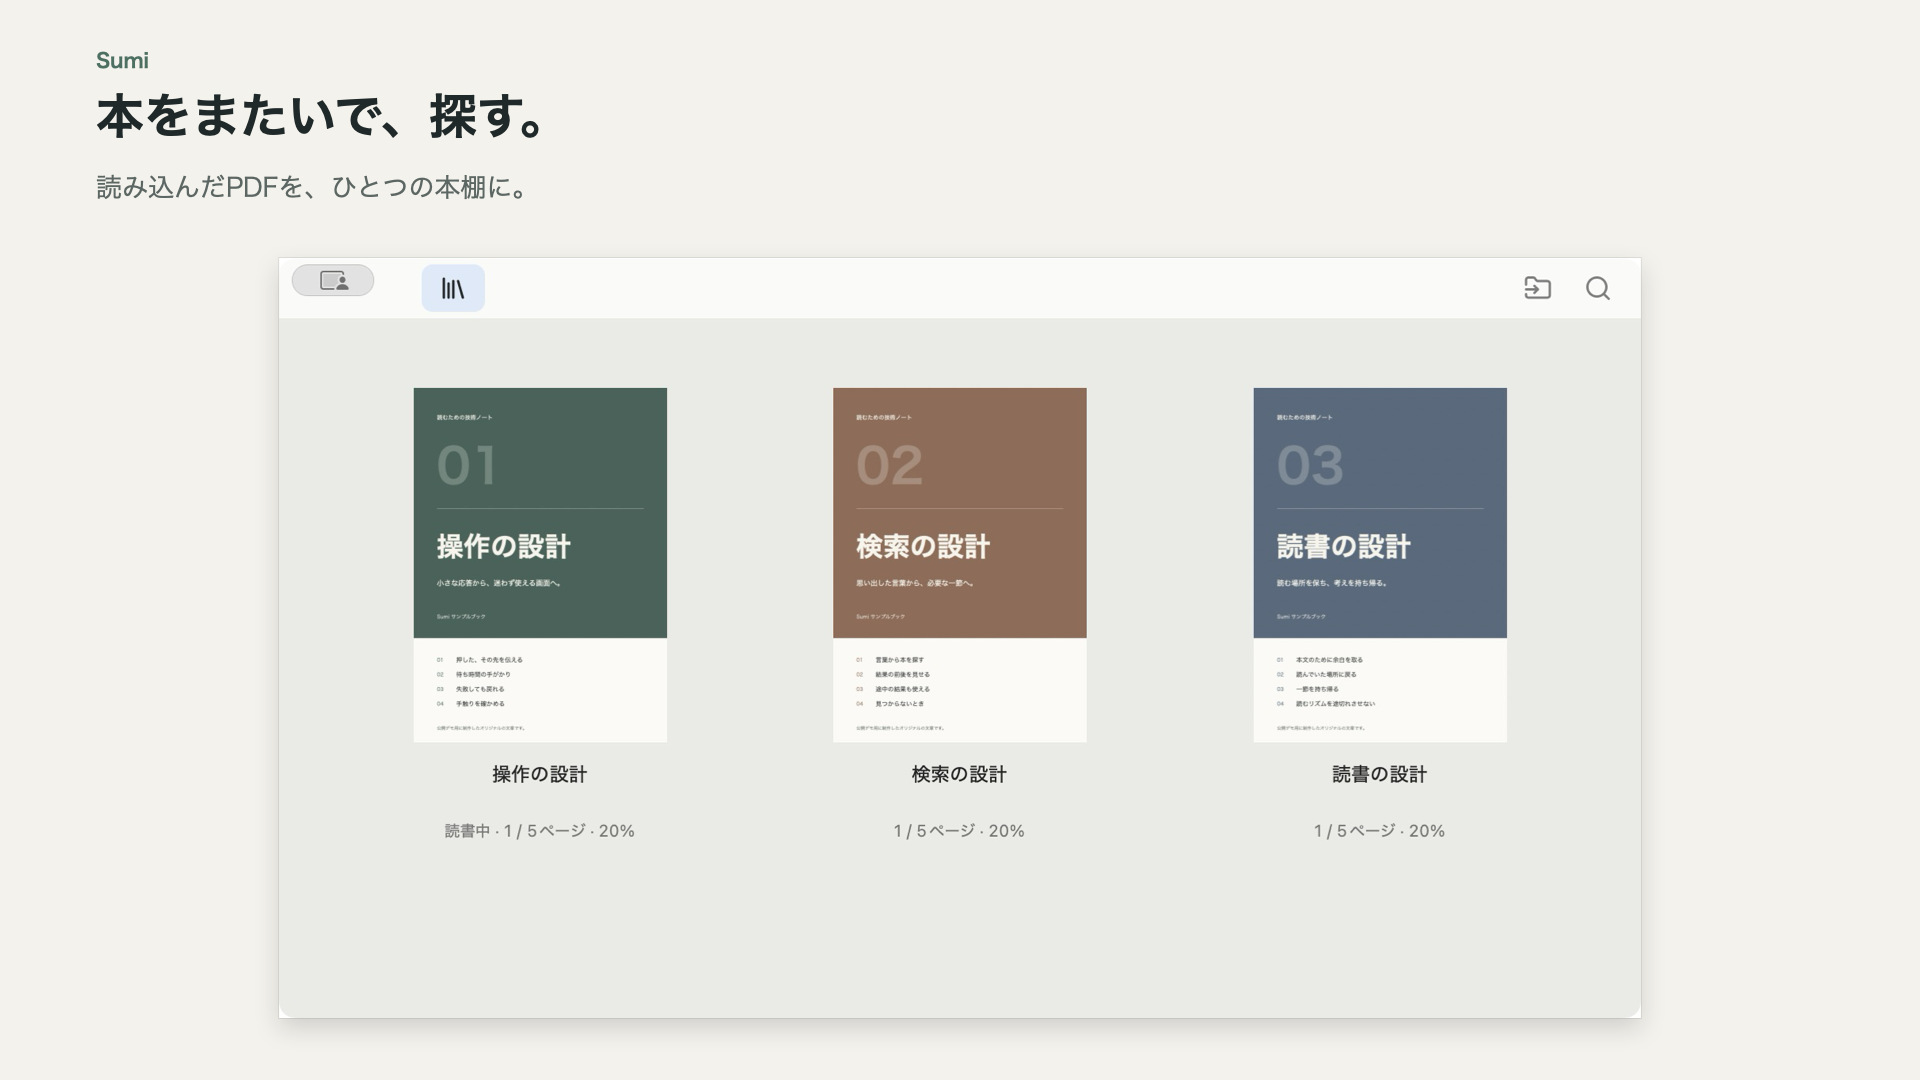
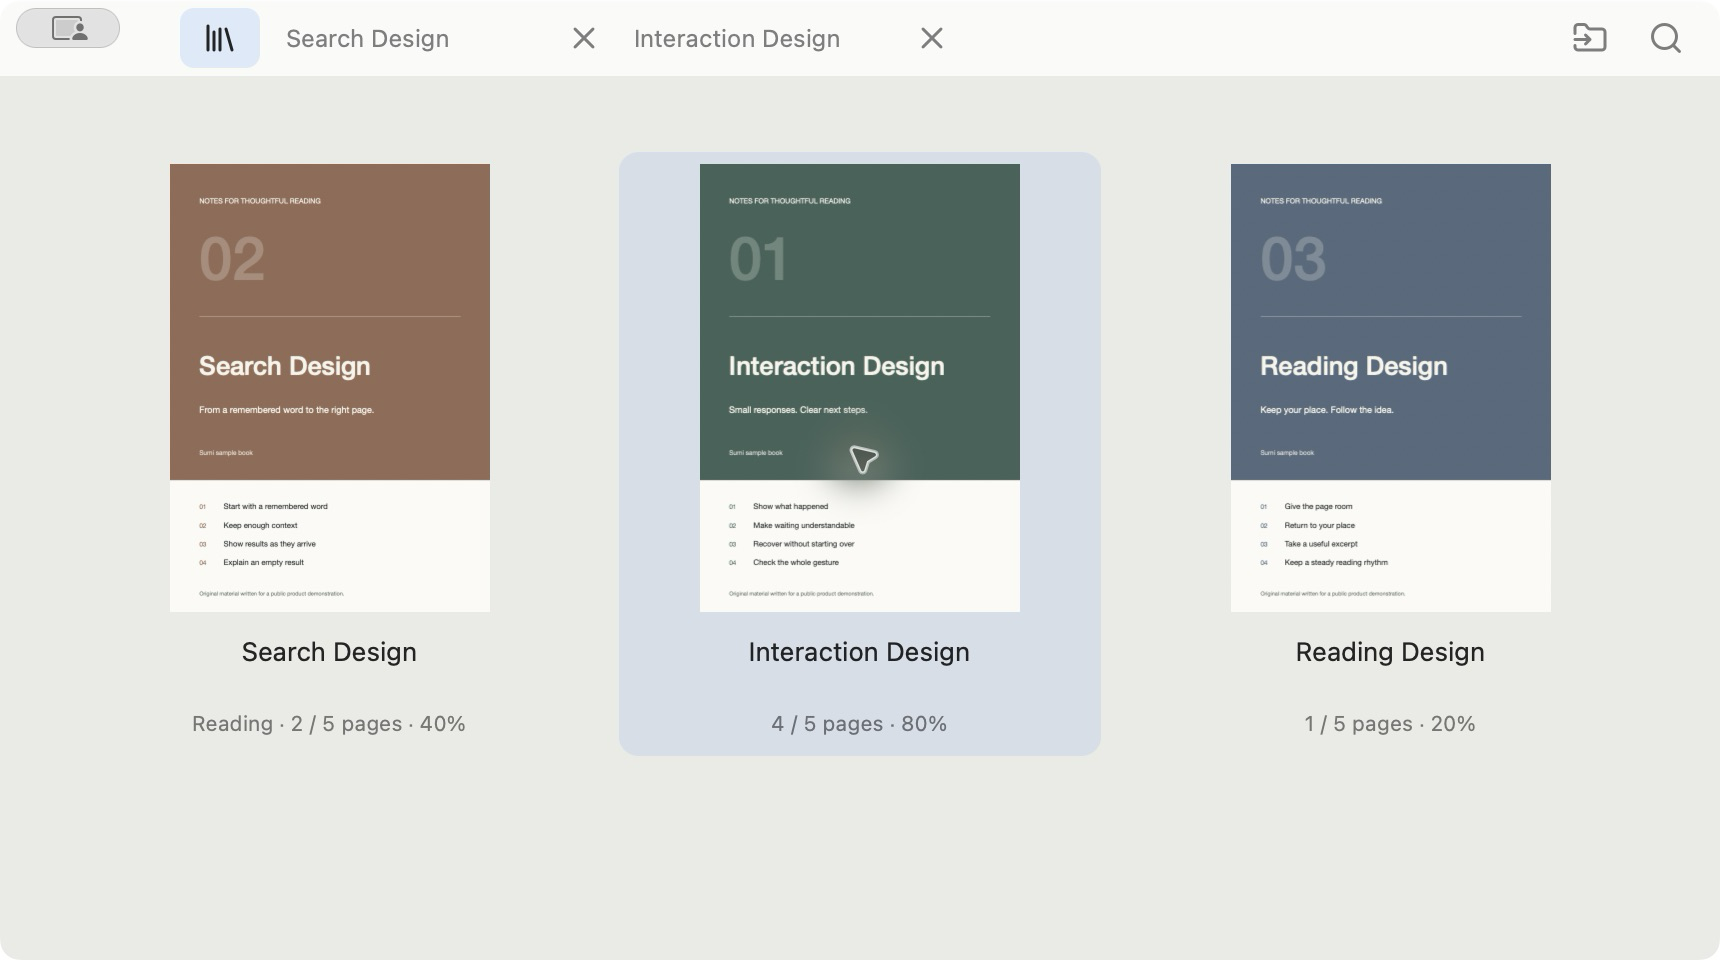
Demonstrate the full reading workflow with continuous live app footage

diff --git a/docs/media/README.md b/docs/media/README.md
@@ -1,33 +1,31 @@
 # Sumi promotional media
 
-These images show the native Sumi 0.7.0 app with three original Japanese sample PDFs. No purchased book, personal bookshelf, or private reading history appears in them. The sample generator and original prose are in `tools/promo/create-demo-books.swift`.
+The current images show native Sumi 0.8.0 in English with three original sample PDFs. The source prose and generator are in `tools/promo/create-demo-books.swift`. Purchased books, the personal library, and private reading history are not used.
 
-## Files
+## Actual app operation
 
-- `screenshots/01-bookshelf.png`: the three sample books on the shelf.
-- `screenshots/02-palette.png`: Command K opens search and actions.
-- `screenshots/03-search-results.png`: the same phrase found in three different PDFs, with book titles and page numbers.
-- `screenshots/04-selected-result.png`: the second book's result selected.
-- `screenshots/05-reading-page.png`: that result opens page 4, with the matched phrase selected in the real PDF renderer.
-- `bookshelf.png`, `cross-book-search.png`, and `reading.png`: 1920 × 1080 promotional cards composed from those screenshots.
+[Watch the 37-second workflow](https://github.com/kairi7011/sumi-reader/releases/download/v0.8.0/Sumi-0.8.0-workflow-en.mp4).
 
-The search phrase is `操作の結果を伝える`. It occurs once in each sample PDF. This is literal full-text keyword search, not regular-expression search.
+This is a continuous ScreenCaptureKit recording of the demo app window. It shows typing `feedback`, matches from three PDFs, selecting Search Design and opening PDF page 4, facing pages, page turns, in-place zoom and Escape to fit, the thumbnail picker and page-number jump, reading tabs, rectangular image copying, and focus mode.
 
-The screenshots were captured from the running app in a separate demo library. The app executable is the released 0.7.0 executable; only the local demo bundle's identifier/display name was changed so it could run alongside the normal reader. No UI pixels were reconstructed. Cards contain scaling/cropping, captions, and a background around the original screenshots.
+Only the idle beginning and ending were trimmed. The clip retains real timing: no screenshot montage, reconstructed UI, inserted freeze frames, transitions, or speed changes. The action inputs were automated through the running app's keyboard and accessibility controls; the video is not a physical trackpad demonstration or a performance benchmark. The video contains no audio.
 
-The 24-second video presents these real screenshots with short captions and crossfades. Scene durations are chosen for explanation, not a speed measurement. The downloadable H.264 MP4 and a media ZIP are attached to the [0.7.0 release](https://github.com/kairi7011/sumi-reader/releases/tag/v0.7.0).
+The app executable matches the packaged 0.8.0 executable. The local demo bundle has a separate identifier and an isolated sample library so recording does not change the reader's personal library. Language, layout, search, and all reading operations use the release app's normal implementation.
 
-## Rebuild the cards and video
+The recording source, trim bounds, hashes, and decoding results are recorded in `workflow-verification.json`. Reproducible capture and processing instructions are in [tools/promo](../../tools/promo/README.md).
 
-On macOS with Apple's Command Line Tools:
+## Images
 
-```sh
-mkdir -p test-artifacts/promo-render
-swift tools/promo/render-promo.swift tools/promo/storyboard.json \
-  --output test-artifacts/promo-render/demo.mp4 \
-  --cards test-artifacts/promo-render/cards
-```
+- `bookshelf.png`: the original books and open reading tabs.
+- `cross-book-search.png`: `feedback` found in three different PDFs, with book titles and page numbers.
+- `reading.png`: two complete PDF pages fitted to the window with two reading tabs.
+- `screenshots/en-03-result-page.png`: the selected result opens Search Design page 4 with the matching word selected.
+- `screenshots/en-04-page-picker.png`: the native thumbnail picker.
 
-The renderer uses system AppKit and AVFoundation, without extra packages or network requests. `--cards-only` generates just the PNG cards. The source screenshots and `tools/promo/storyboard.json` are checked in; generated demo PDFs and video intermediates remain ignored.
+These are unmodified app-window screenshots at 1720 × 960. PDF contents and labels are rendered by the app, not redrawn for promotion.
 
-Original demo prose, screenshots, cards, renderer, and video are offered under the repository's Apache License 2.0. macOS-rendered fonts are used in the images; font files are not distributed. The app's third-party notices remain applicable to the software shown.
+## Earlier media
+
+The Japanese screenshots named `screenshots/01-*` through `05-*` were captured from 0.7.0. Its historical release includes a screenshot slideshow, not an actual-operation recording. The old `render-promo.swift` and `storyboard.json` reproduce that older material; current promotion uses the real recording above.
+
+Original demo prose, screenshots, capture tools, and video are offered under the repository's Apache License 2.0. Font files are not distributed. The app's third-party notices remain applicable to the software shown.

diff --git a/docs/verification-0.8.0.md b/docs/verification-0.8.0.md
@@ -1,0 +1,26 @@
+# Native 0.8.0 verification
+
+Verified on an Apple Silicon Mac on 2026-11-06. The packaged app remains Rust + AppKit/PDFKit; no browser engine or new external dependency was added.
+
+## Automated checks
+
+- `npm run check` passed.
+- `npm test` passed 76 tests: 45 Rust, 20 local-library, 6 public-audit, and 5 mirror-ordering tests. One opt-in private-book probe was not run.
+- After the final language-refresh fixes, the native checks and all 45 Rust tests passed again.
+- `npm run package:mac`, strict local codesign verification, native license/linkage/path checks, and ZIP integrity verification passed.
+- The app contains 35 files, totals 2,857,393 bytes, and links nine system libraries. This is bundle size, not a measurement of runtime memory.
[1 lines of base64/hex data omitted]
+
+## Packaged-app checks
+
+Used an isolated library containing the project's three original demo PDFs. Verified English/Japanese switching, English preference persistence after relaunch, localized menus, hints, shelf cards, tabs and page picker, and compact icon buttons after switching languages.
+
+With page 2 being read and page 5 selected in the picker, changing language through the app menu preserved both positions. Automated tests cover the migration of older preferences and rejecting an invalid language without changing saved settings.
+
+Verified a typed `feedback` query returns passages from all three books and selecting Search Design opens PDF page 4 with the matching word selected. Also exercised facing spreads, keyboard page turns, in-place zoom, Escape to fit, thumbnail navigation, a page-number jump, opening a second book tab and returning to the prior book, rectangular image copy, and focus mode.
+
+These interactions are visible in the [actual-operation recording](media/README.md). It uses the packaged executable and real input operations. It is not a physical trackpad test, a benchmark, or a slideshow. The capture hint and copy confirmation are visible; the brief selection rectangle is not clearly discernible in the recording.
+
+## Distribution limits
+
+This is an ARM64 macOS 13+ preview, ad-hoc signed and not notarized. ScreenCaptureKit recording tools require macOS 15+, but they are development tools and are not part of the reader bundle. Public pattern scans are not a complete security or copyright audit; new media was separately inspected for private content.
